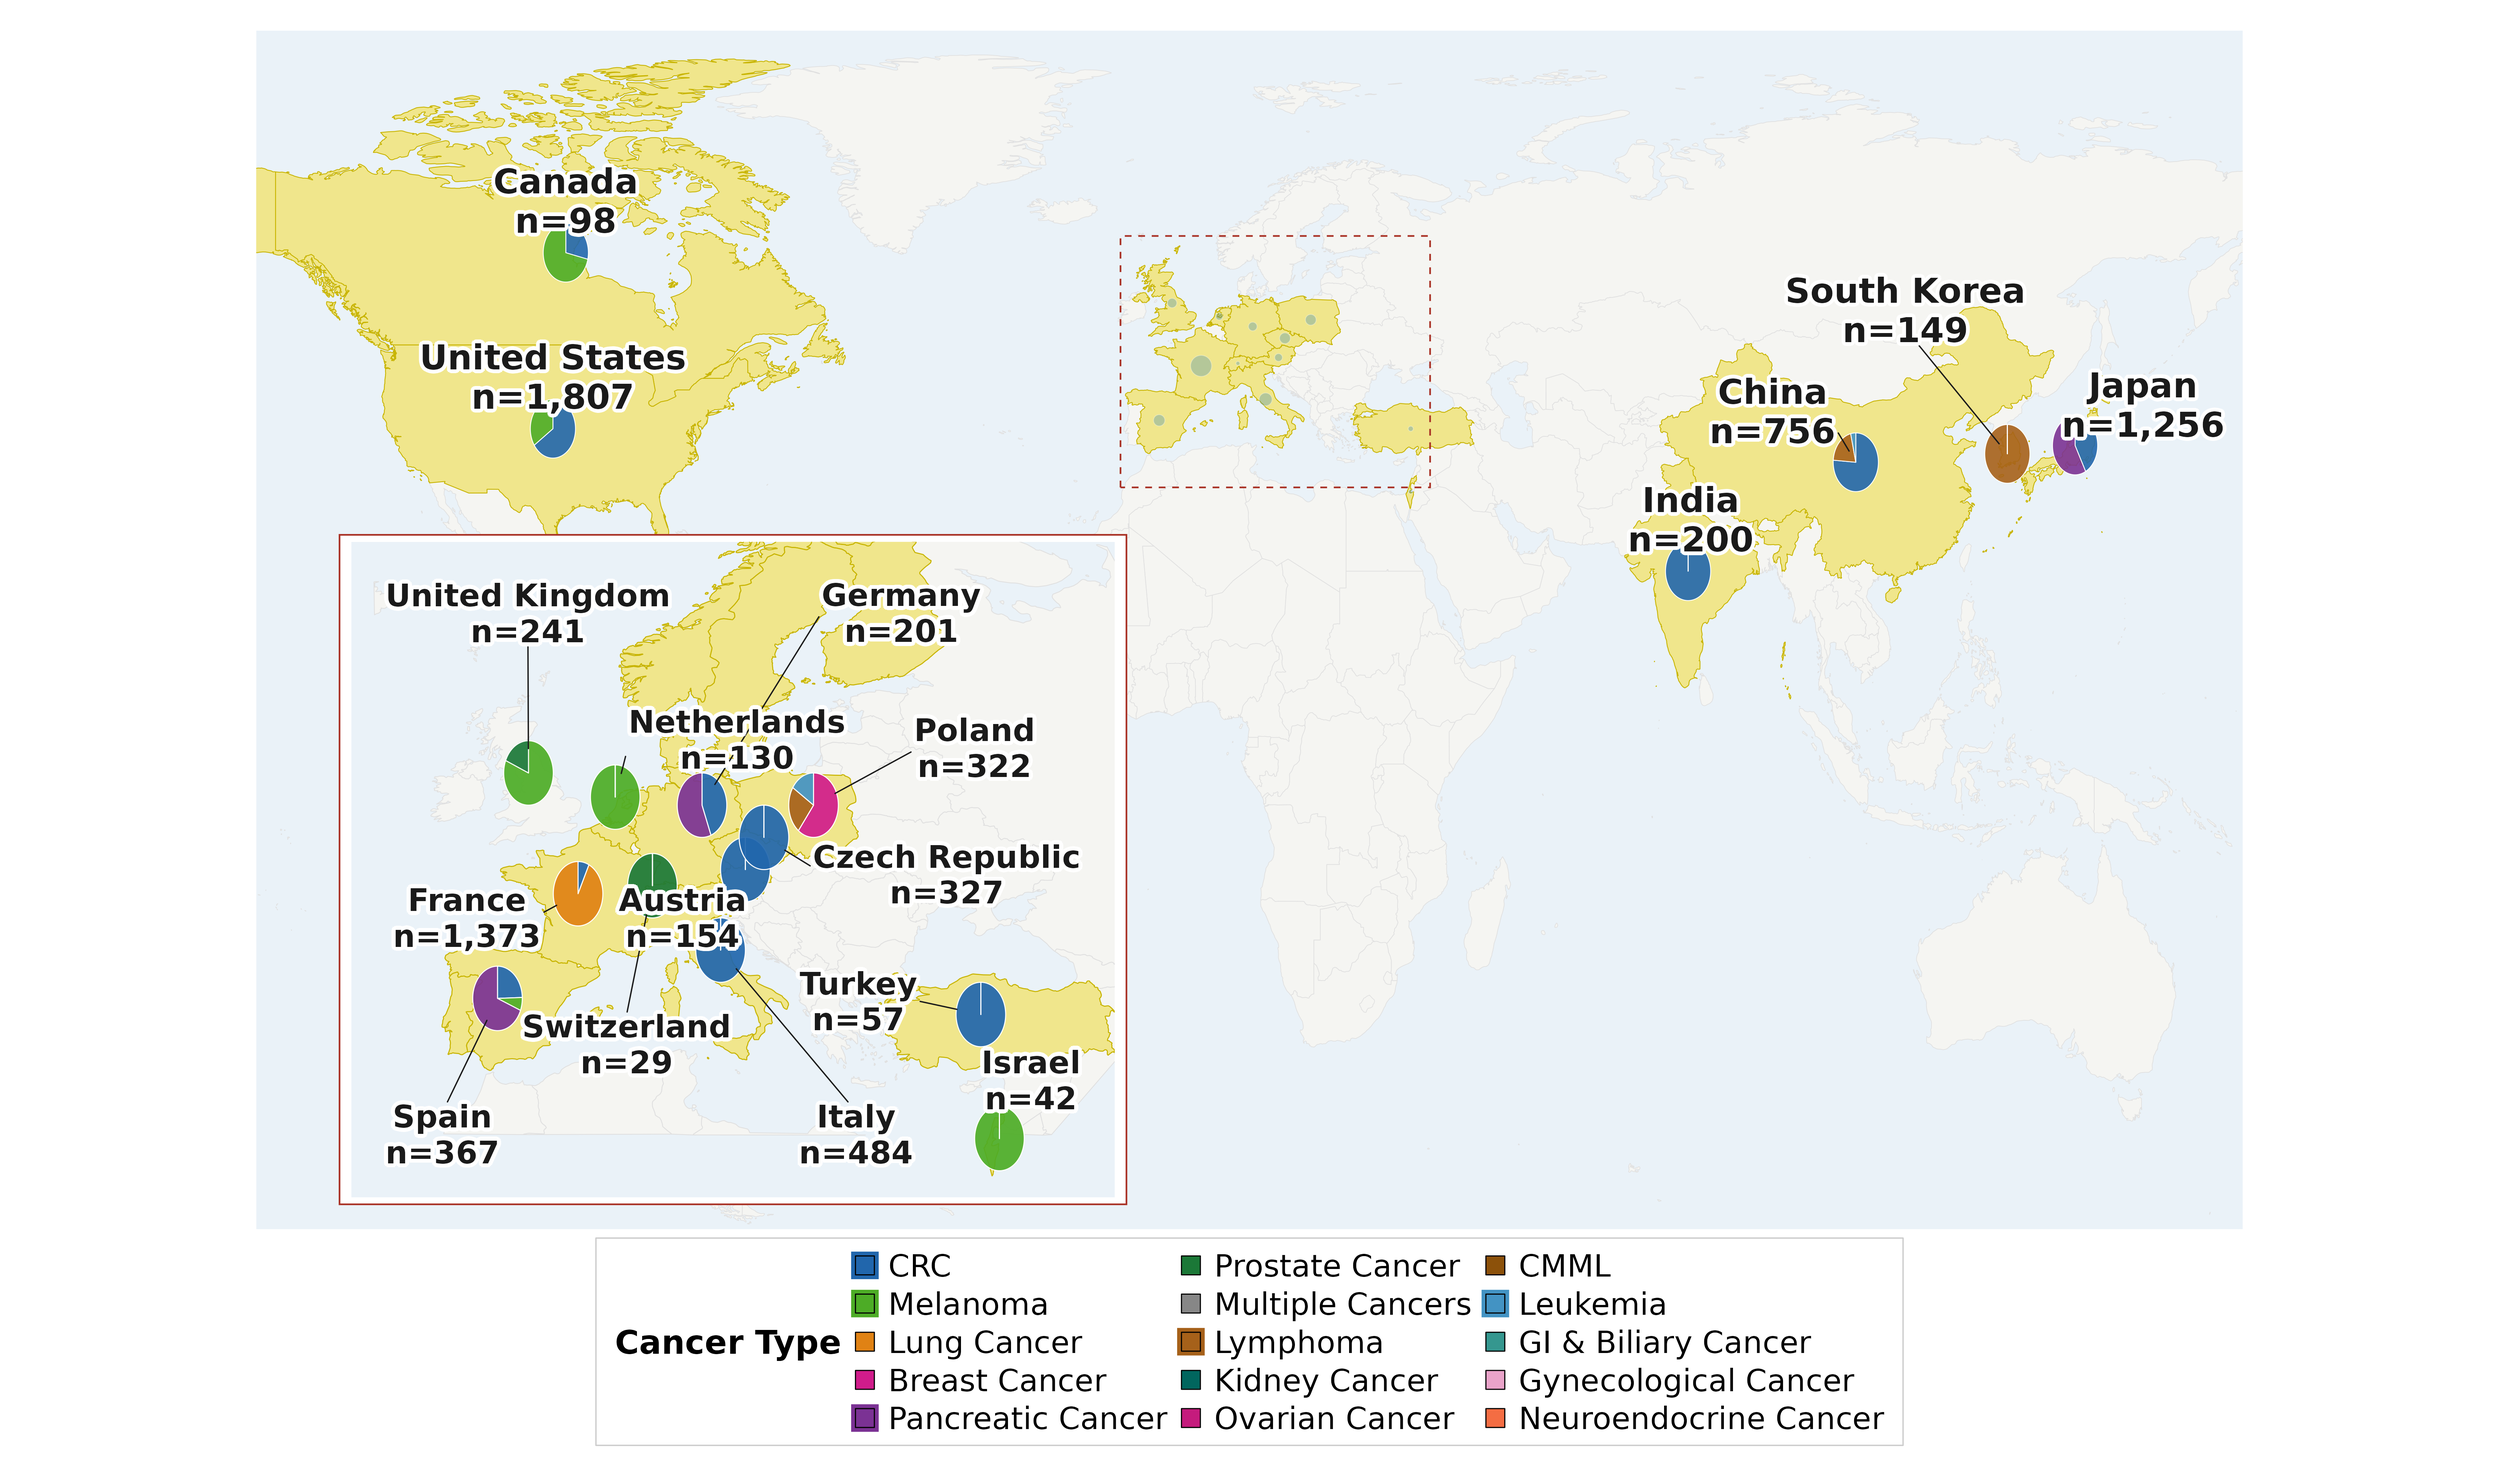
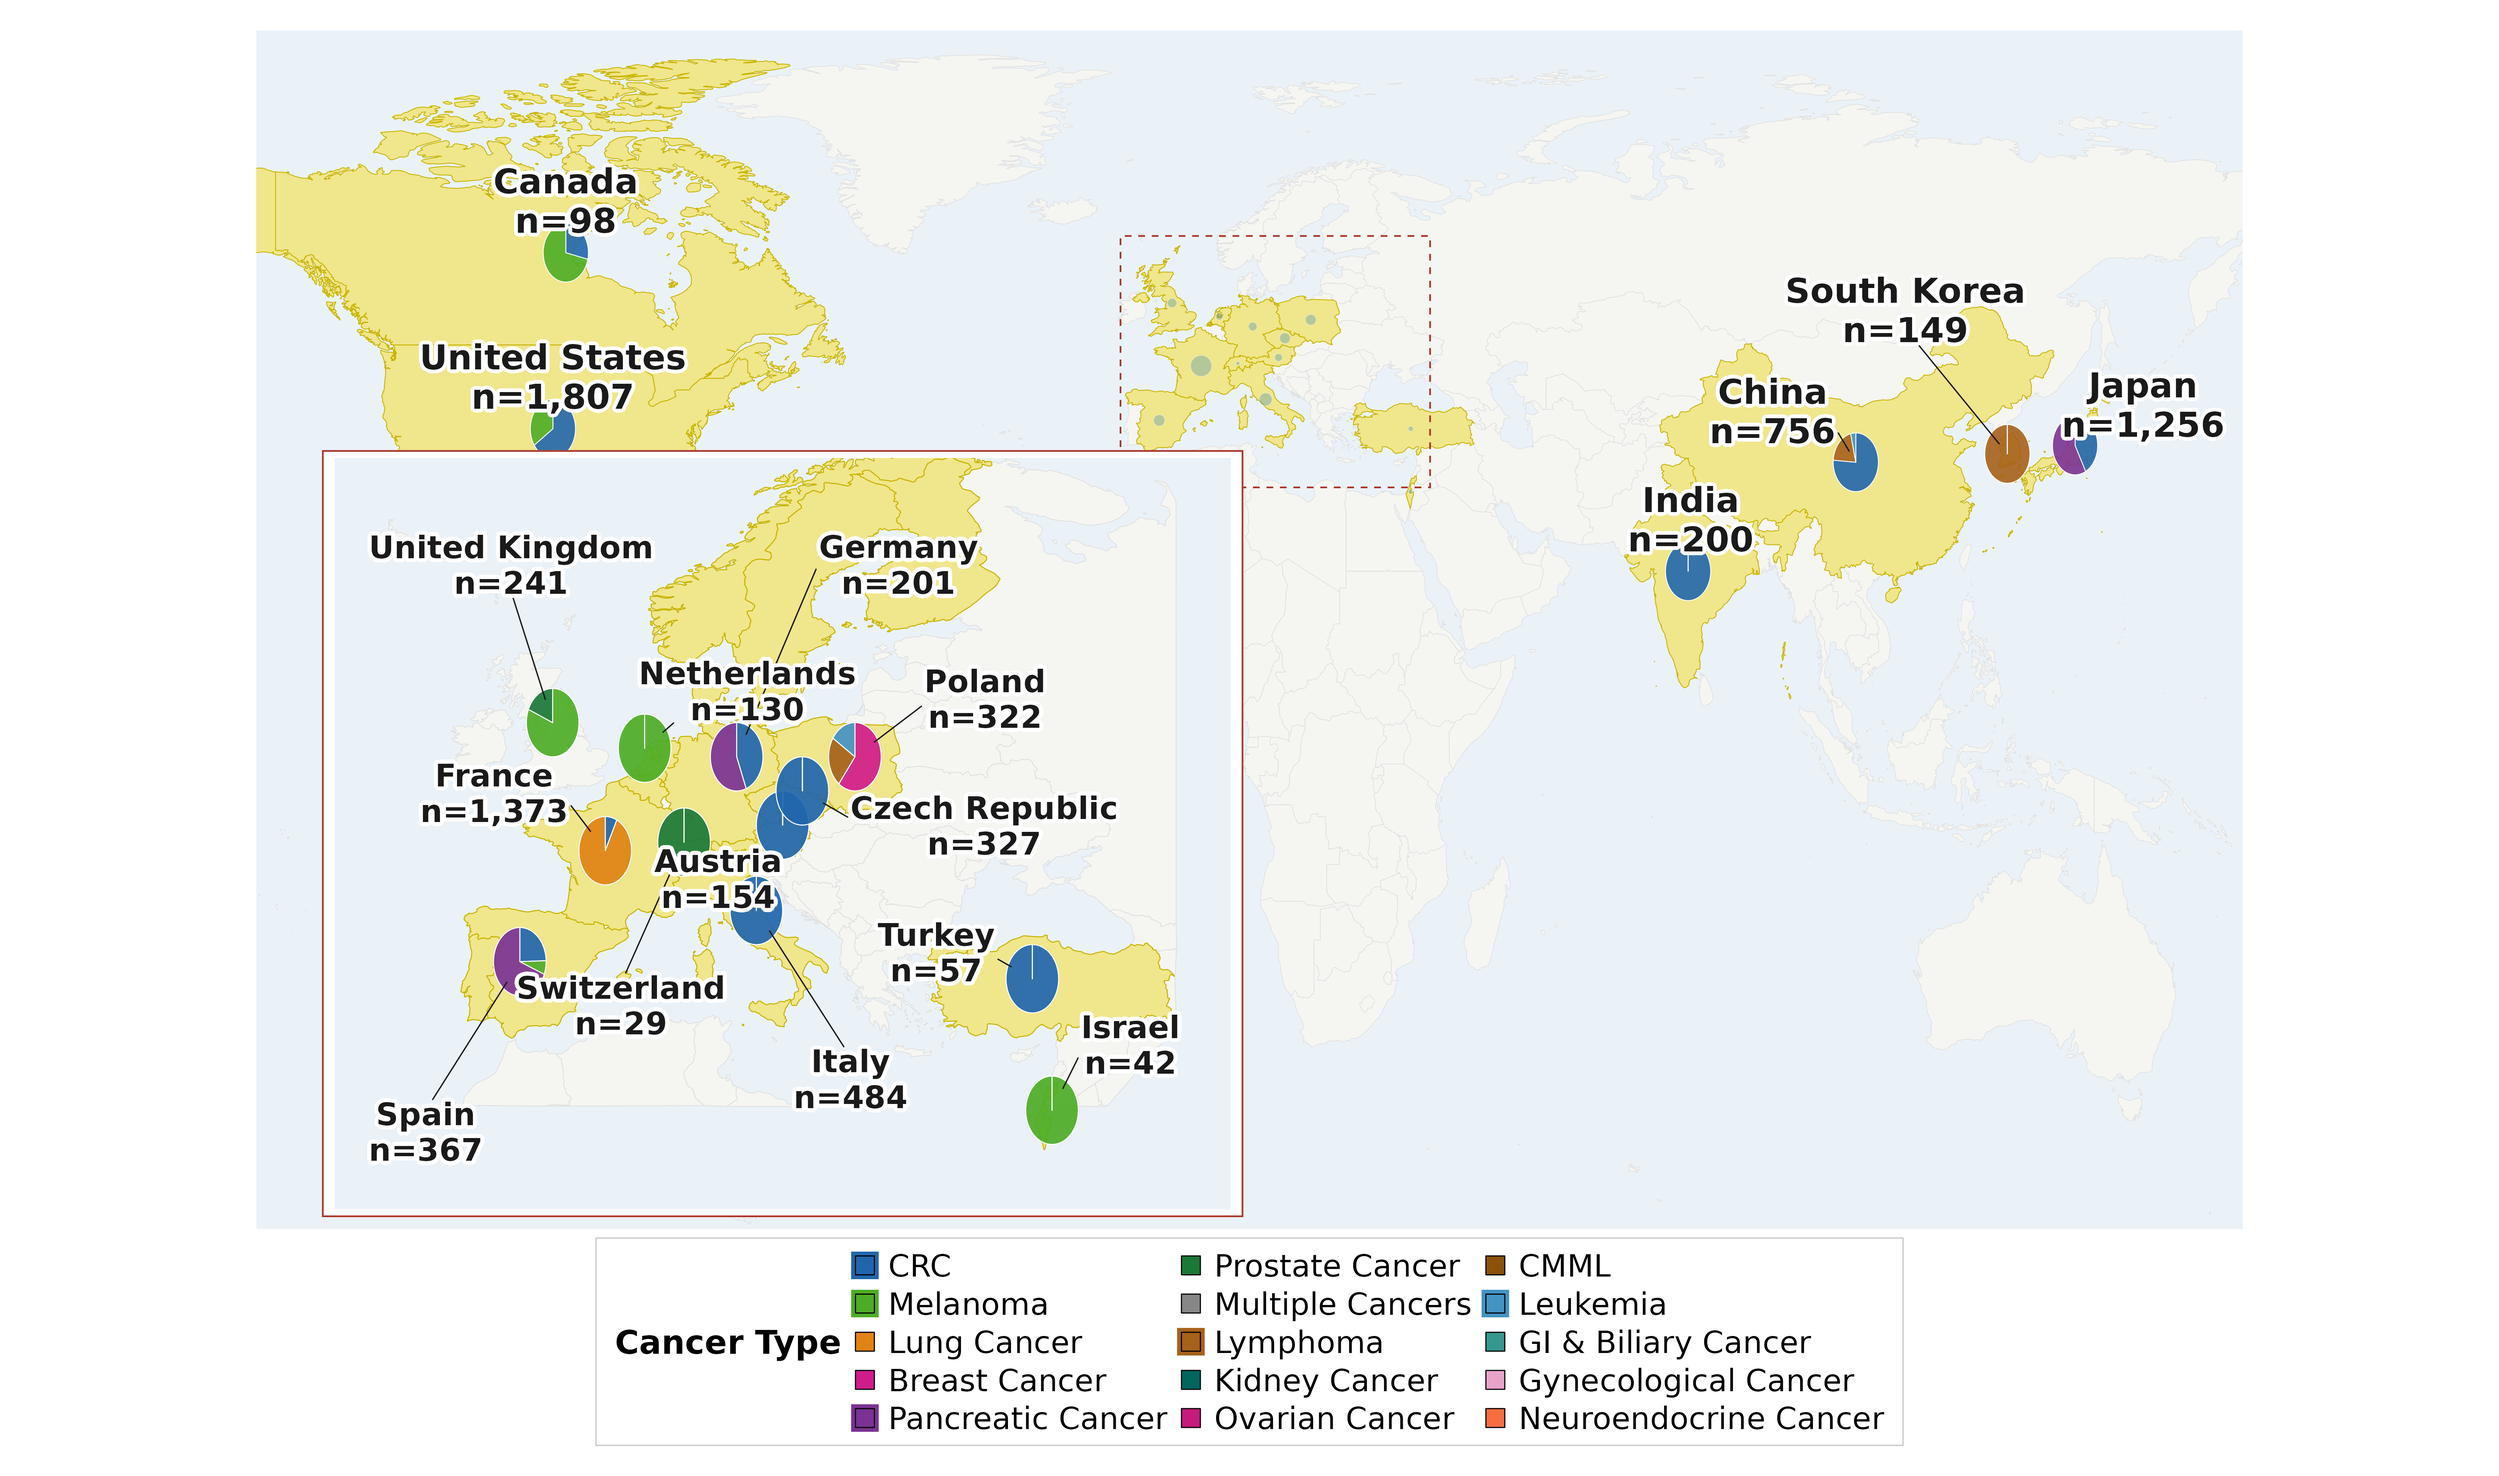
Fix Fig2 text cutoff and Europe inset size

Changed region(s): [[0.1248, 0.2792, 0.4682, 0.8067], [0.2809, 0.8067, 0.3121, 0.8377]]

diff --git a/index.html b/index.html
@@ -457,7 +457,7 @@
 
 
 <h1 id="curatedmetagenomicdata-cancer-datasets-overview">curatedMetagenomicData -- Cancer Datasets Overview</h1>
-<p><em>Last updated: 2026-08-07 09:37 UTC</em></p>
+<p><em>Last updated: 2026-08-07 09:42 UTC</em></p>
 <h2 id="summary">Summary</h2>
 <table>
 <thead>
